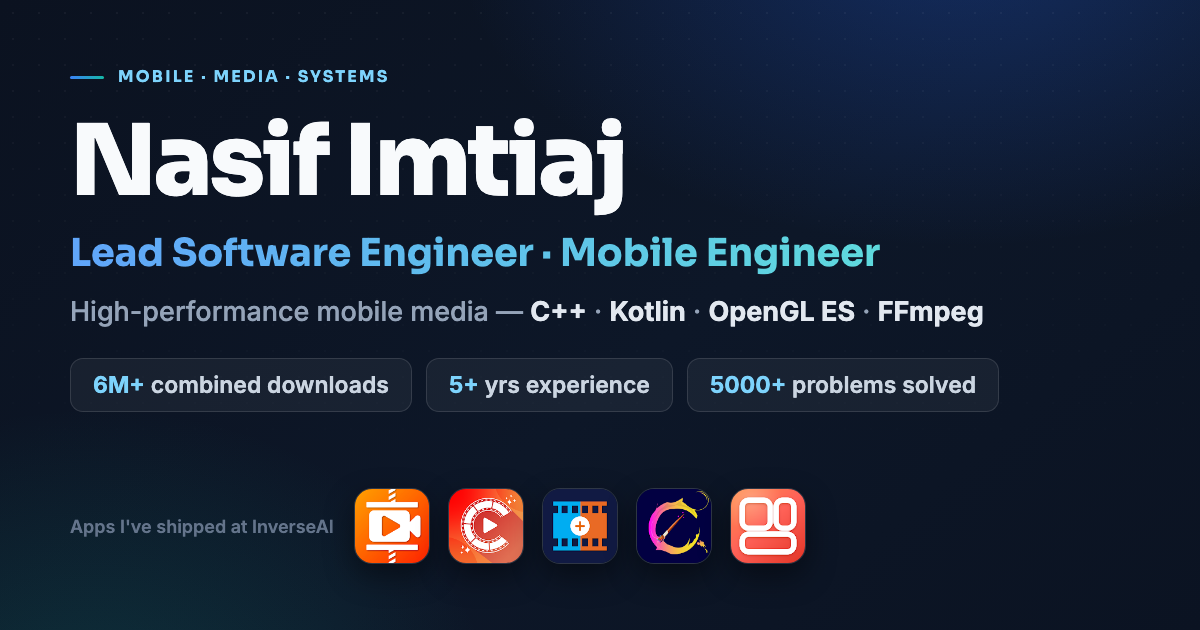
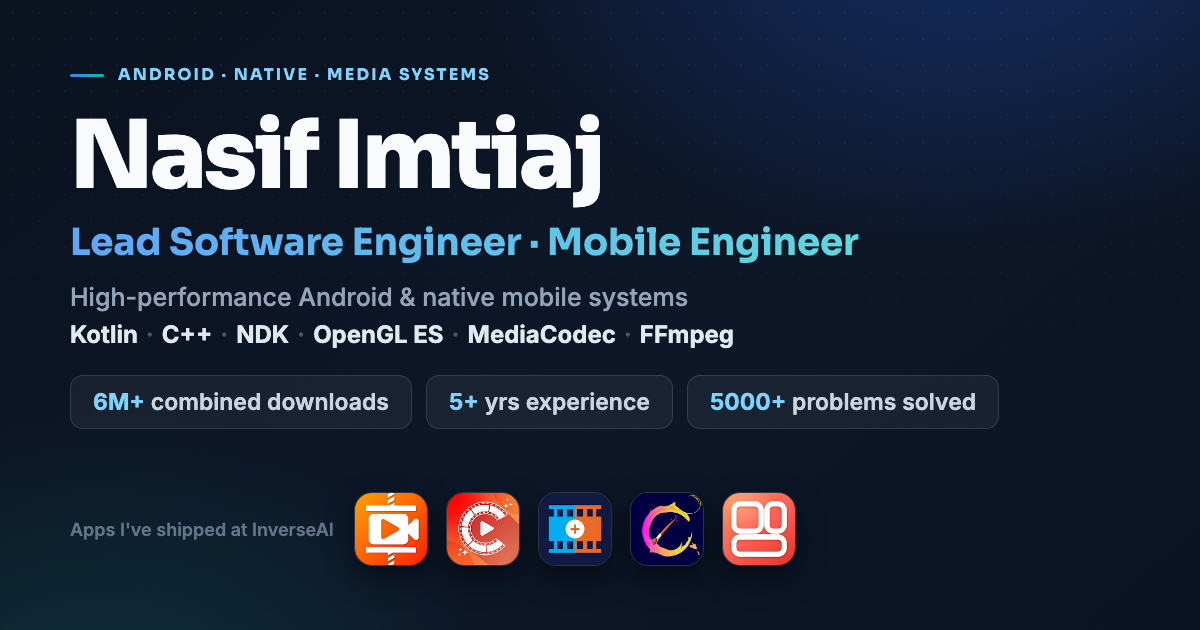
Sync portfolio with updated resume; reposition to Android-native
- Rewrite summary/about to "high-performance Android applications and
  native mobile systems in Kotlin, C++, and the NDK"
- Drop iOS/Swift/SwiftUI/UIKit/Xcode and cross-platform framing
- Rewrite Lead SWE and SWE (Android) experience bullets to match resume
- Skills: "Android Development" card; add System Design & Software
  Architecture; AI Engineering (LLM Integrations)
- Video Collage: add multi-video engine bullet (9 concurrent streams)
- Video Compressor: reword AI assistant bullet, drop dated framing
- Regenerate OG cover and add LinkedIn banner with new positioning

diff --git a/index.html b/index.html
@@ -4,9 +4,9 @@
   <meta charset="UTF-8">
   <meta name="viewport" content="width=device-width, initial-scale=1.0">
   <title>Nasif Imtiaj — Lead Software &amp; Mobile Engineer</title>
-  <meta name="description" content="Lead Software Engineer with ~5 years in high-performance mobile media — native C++, OpenGL ES, and FFmpeg video engines. Shipped apps totaling 6M+ downloads.">
+  <meta name="description" content="Lead Software Engineer with 5 years building high-performance Android applications and native mobile systems in Kotlin, C++, and the NDK — OpenGL ES, MediaCodec, and FFmpeg. Apps with 6M+ downloads.">
   <meta property="og:title" content="Nasif Imtiaj — Lead Software &amp; Mobile Engineer">
-  <meta property="og:description" content="Lead Software Engineer specializing in high-performance mobile media — native C++, OpenGL ES, and FFmpeg video engines. 6M+ app downloads shipped.">
+  <meta property="og:description" content="Lead Software Engineer building high-performance Android applications and native mobile systems in Kotlin, C++, and the NDK — OpenGL ES, MediaCodec, and FFmpeg. Apps with 6M+ downloads.">
   <meta property="og:url" content="https://nasif-imtiaj.github.io">
   <meta property="og:type" content="website">
   <meta property="og:image" content="https://nasif-imtiaj.github.io/assets/img/og-cover.png">
@@ -88,7 +88,7 @@
       <span class="role-chip teal">Mobile Engineer</span>
     </div>
     <p class="hero-desc f3">
-      Lead Software Engineer with <strong>~5 years</strong> specializing in high-performance mobile media — architecting native <strong>C++, OpenGL ES, and FFmpeg</strong> video engines for real-time editing, GPU rendering, and hardware-accelerated export. Shipped apps totaling <strong>6M+ downloads</strong>, led a team of up to <strong>6</strong>, and partnered with leadership to shape product and roadmap.
+      Lead Software Engineer with <strong>5 years</strong> building high-performance Android applications and native mobile systems in <strong>Kotlin, C++, and the NDK</strong>. Architected from-scratch rendering engines and optimized GPU and multithreaded pipelines — spanning <strong>OpenGL ES, MediaCodec, and FFmpeg</strong> — across apps with <strong>6M+ downloads</strong>. Led a team of up to <strong>6</strong>, owned core architecture and code review, and partnered with leadership to shape product direction.
     </p>
     <div class="hero-actions f4">
       <a href="mailto:nasifimtiaj.16@gmail.com" class="btn btn-primary">Get in touch</a>
@@ -152,10 +152,10 @@
     <div class="about-layout">
       <div class="about-text">
         <p>
-          I'm a <strong>Lead Software Engineer</strong> with <strong>~5 years</strong> specializing in high-performance mobile media. I architect native <strong>C++, OpenGL ES, and FFmpeg</strong> video engines for real-time editing, GPU rendering, and hardware-accelerated export — powering apps that have shipped <strong>6M+ downloads</strong> on the Play Store.
+          I'm a <strong>Lead Software Engineer</strong> with <strong>5 years</strong> building high-performance Android applications and native mobile systems in <strong>Kotlin, C++, and the NDK</strong>. I architect from-scratch rendering engines and optimize GPU and multithreaded pipelines — spanning <strong>OpenGL ES, MediaCodec, and FFmpeg</strong> — across apps with <strong>6M+ downloads</strong>.
         </p>
         <p>
-          I led the ground-up development of a <strong>from-scratch native rendering engine</strong> now re-used across 5 InverseAI apps, and I drive core product decisions — feature prioritization, market research, and roadmap planning. Along the way I've mentored <strong>10+ engineers</strong>, led a team of up to <strong>6</strong>, and conducted <strong>100+ technical interviews</strong>. Lately I've been building <strong>AI &amp; agentic systems</strong> — on-device agent loops, MCP tooling, and multi-agent automation for QA and releases.
+          I own the architecture of the core video-editing platform as its principal engineer, and the <strong>from-scratch native rendering engine</strong> I built now powers 5 InverseAI apps. I've led a team of up to <strong>6</strong>, mentored and onboarded <strong>10+ engineers</strong>, conducted <strong>100+ technical interviews</strong>, and partner with leadership to shape product direction. Lately I've been building <strong>AI &amp; agentic systems</strong> — on-device agent loops, MCP tooling, and multi-agent automation for QA and releases.
         </p>
         <p>
           Beyond my work, I am a dedicated competitive programmer, having solved <strong>5000+ algorithmic problems</strong> and participated in multiple national and online contests. My passion for problem-solving drives me to take ownership, solve complex challenges, and continuously improve products.
@@ -180,7 +180,7 @@
             <span class="itag">Video Processing</span>
             <span class="itag">AI &amp; Agentic Systems</span>
             <span class="itag">Competitive Programming</span>
-            <span class="itag">Cross-platform Dev</span>
+            <span class="itag">System Design</span>
             <span class="itag">Low-level Systems</span>
           </div>
         </div>
@@ -200,20 +200,16 @@
       <div class="skill-card wide">
         <div class="skill-card-header">
           <div class="skill-icon si-blue">📱</div>
-          <div class="skill-card-title">Mobile Development</div>
+          <div class="skill-card-title">Android Development</div>
         </div>
         <div class="tag-list">
           <span class="tag primary">Kotlin</span>
-          <span class="tag primary">Swift</span>
           <span class="tag primary">Jetpack Compose</span>
-          <span class="tag primary">SwiftUI</span>
+          <span class="tag primary">Coroutines &amp; Flow</span>
           <span class="tag primary">KMM</span>
-          <span class="tag">Coroutines</span>
-          <span class="tag">UIKit</span>
           <span class="tag">MVVM</span>
           <span class="tag">MVC</span>
           <span class="tag">Android SDK</span>
-          <span class="tag">iOS SDK</span>
         </div>
       </div>
 
@@ -228,11 +224,12 @@
           <span class="tag teal-tag">C++</span>
           <span class="tag teal-tag">Kotlin</span>
           <span class="tag teal-tag">Java</span>
-          <span class="tag teal-tag">Swift</span>
           <span class="tag">NDK</span>
           <span class="tag">JNI</span>
           <span class="tag">CMake</span>
           <span class="tag">Multithreading</span>
+          <span class="tag">System Design</span>
+          <span class="tag">Software Architecture</span>
         </div>
       </div>
 
@@ -257,17 +254,15 @@
       <div class="skill-card">
         <div class="skill-card-header">
           <div class="skill-icon si-blue">🤖</div>
-          <div class="skill-card-title">AI &amp; Agentic Engineering</div>
+          <div class="skill-card-title">AI Engineering</div>
         </div>
         <div class="tag-list">
           <span class="tag primary">MCP</span>
-          <span class="tag primary">Multi-agent Orchestration</span>
+          <span class="tag primary">LLM Integrations</span>
           <span class="tag primary">Agentic Workflows</span>
-          <span class="tag primary">LLM Automation</span>
           <span class="tag">Claude Code</span>
           <span class="tag">Cursor</span>
           <span class="tag">Codex</span>
-          <span class="tag">Antigravity</span>
         </div>
       </div>
 
@@ -286,7 +281,6 @@
           <span class="tag">ProGuard / R8</span>
           <span class="tag">Jira</span>
           <span class="tag">Android Studio</span>
-          <span class="tag">Xcode</span>
         </div>
       </div>
 
@@ -313,15 +307,12 @@
             <a href="https://inverseai.com/" class="exp-company-link" target="_blank" title="Visit InverseAI"><span class="exp-company">InverseAI</span> ↗</a>
           </div>
           <ul class="exp-bullets">
-            <li>Led the development of a video editor app from the ground up, designing an extensible codebase for Android and iOS to support feature expansion and making key decisions on feature development, design and release timelines for a successful launch.</li>
-            <li>Utilized GPU resources to boost decoding and encoding speed by approximately <strong>50%</strong>.</li>
-            <li>Improved the multithreading structure to allow users to add multiple videos at once, providing a dynamic user experience.</li>
-            <li>Built core features such as Filter and Adjust using OpenGL and FFmpeg through in-depth research and optimizations to provide faster rendering for <strong>2K resolution</strong> and <strong>60 fps</strong> videos.</li>
-            <li>Built a multi-video collage module capable of handling up to <strong>9 videos</strong> with synchronized playback.</li>
-            <li>Strengthened overall app quality and Play Store performance by keeping crash and ANR rates well within Google's required thresholds.</li>
-            <li>Drove core product decisions — feature prioritization, market research, and roadmap planning — directly shaping which features shipped in a product-driven company.</li>
-            <li>Mentored and onboarded <strong>10+</strong> engineers and led a team of up to <strong>6</strong>, running code reviews and establishing coding standards to ramp new hires to independent delivery.</li>
-            <li>Conducted <strong>100+</strong> technical interviews, driving engineering hiring decisions as the team scaled.</li>
+            <li>Owned the architecture of the core video-editing platform as its principal engineer — defining technical direction, reviewing critical changes, and safeguarding release quality across a growing team.</li>
+            <li>Re-architected the native decode/encode pipeline to offload processing to the GPU, increasing video processing throughput by approximately <strong>50%</strong>.</li>
+            <li>Expanded the editing pipeline from single-video to <strong>multi-video composition</strong> by redesigning the underlying multithreaded processing pipeline for simultaneous editing of multiple clips.</li>
+            <li>Engineered core editing features such as Filter and Adjust with OpenGL and FFmpeg, applying GPU pipeline optimizations to deliver faster rendering for <strong>2K resolution</strong> and <strong>60 fps</strong> videos.</li>
+            <li>Influenced product strategy alongside company leadership — balancing technical feasibility, customer feedback, and roadmap priorities.</li>
+            <li>Led a team of up to <strong>6</strong> engineers, mentoring and onboarding <strong>10+</strong> engineers through code reviews and engineering standards, while conducting <strong>100+</strong> technical interviews that helped scale the engineering organization.</li>
           </ul>
         </div>
       </div>
@@ -338,12 +329,11 @@
             <a href="https://inverseai.com/" class="exp-company-link" target="_blank" title="Visit InverseAI"><span class="exp-company">InverseAI</span> ↗</a>
           </div>
           <ul class="exp-bullets">
-            <li>Enhanced the performance and stability of legacy apps by optimizing compression commands, resolving crashes &amp; ANRs, and conducting code reviews, leading to a <strong>4× increase</strong> in in-app purchase revenue.</li>
-            <li>Analyzed key customer issues by collaborating with the testing team, reviewing console feedback and bug reports to build test cases that reduced overall complaints by <strong>10%</strong>.</li>
+            <li><strong>Contributed to a 4× increase</strong> in in-app purchase revenue over two years by improving the stability and compression performance of legacy apps — optimizing compression commands, resolving crashes &amp; ANRs, and enforcing code-review-gated releases.</li>
+            <li>Analyzed key customer issues by collaborating with the testing team, reviewing console feedback, email responses, and bug reports to develop test cases that accelerated issue detection, reducing overall complaints by <strong>10%</strong>.</li>
             <li>Engineered a new seeking mechanism for the Video Editor app that improved accuracy by <strong>20%</strong> and innovated bi-directional slow seeking with precise preview functionality.</li>
-            <li>Architected and optimized efficient multithreaded systems to ensure flawless asynchronous execution in highly concurrent operations.</li>
+            <li>Architected and optimized efficient <strong>multithreaded systems</strong> to ensure flawless asynchronous execution and prevent unexpected behavior in highly concurrent operations.</li>
             <li>Developed the photo collage feature using the <strong>DSU algorithm</strong>, enabling customizable layout arrangements supporting up to <strong>10 pictures</strong> at once.</li>
-            <li>Modularized reusable components of existing projects to reduce coding redundancy, improving reliability and maintenance.</li>
           </ul>
         </div>
       </div>
@@ -380,7 +370,7 @@
         </div>
         <div class="project-name">Video Compressor</div>
         <div class="project-meta"><span class="pm-star">★ 4.8</span><span class="pm-sep">·</span><span class="pm-dl">5M+ downloads</span></div>
-        <div class="project-desc">Spearheaded the 2026 flagship <strong>AI assistant</strong> that turns natural-language requests into finished video compressions, and executed the app's core FFmpeg engine migration.</div>
+        <div class="project-desc">Architected and built an in-app <strong>AI assistant</strong> that turns natural-language requests into finished video compressions, and executed the app's core FFmpeg engine migration.</div>
         <div class="project-tags">
           <span class="ptag">AI Agent</span>
           <span class="ptag">MCP</span>
@@ -391,7 +381,7 @@
         <div class="pd-detail" hidden>
           <h4 class="modal-sec">Contribution &amp; Work</h4>
           <ul class="pd-bullets">
-            <li><strong>Spearheaded</strong> the 2026 flagship feature — an in-app <strong>AI assistant</strong> that turns natural-language requests into finished video compressions — architecting an on-device agent loop that exposes <strong>16 tools</strong> across <strong>9 compression profiles</strong>.</li>
+            <li><strong>Architected and built</strong> an in-app <strong>AI assistant</strong> that turns natural-language requests into finished video compressions — an on-device agent loop that exposes <strong>16 tools</strong> across <strong>9 compression profiles</strong>.</li>
             <li><strong>Engineered</strong> the assistant's compression engine bridge, mapping validated AI plans into the FFmpeg pipeline across <strong>22 container formats</strong> and <strong>19 video codecs</strong>, with tested invariants that prevent native-encoder crashes.</li>
             <li><strong>Executed</strong> the app's core FFmpeg engine migration behind a legacy-API-preserving adapter, landing a major dependency upgrade without regressing existing features.</li>
             <li><strong>Accelerated</strong> responsiveness on large videos by moving compression, execution, and metadata work off the UI thread and eliminating a recurring class of concurrency-driven memory leaks.</li>
@@ -516,6 +506,7 @@
           <h4 class="modal-sec">Contribution &amp; Work</h4>
           <ul class="pd-bullets">
             <li><strong>Independently</strong> designed, built, and shipped a Jetpack Compose Android photo/video collage app end-to-end — architecture, editing engine, and monetization.</li>
+            <li><strong>Architected</strong> a synchronized <strong>multi-video collage</strong> engine supporting playback of up to <strong>9 concurrent video streams</strong>.</li>
             <li><strong>Engineered</strong> a mask-based GPU collage renderer with <strong>400+ layouts</strong>, root-causing and fixing native OpenGL/MediaCodec export defects — hardware-decoder exhaustion, EGL-context loss, and black-cell texture failures — to deliver smooth multi-clip output.</li>
             <li><strong>Built</strong> a complete monetization stack — a Play Billing subscription paywall with settlement-safe entitlement, rewarded, interstitial, and app-open ads, an in-house cross-promo fallback, and per-feature premium gating.</li>
             <li><strong>Automated</strong> visual QA with a computer-vision test harness that validates every generated layout mask against its reference icon on real devices, catching mismatches a simpler check missed.</li>
@@ -626,7 +617,7 @@
           </div>
           <div class="achievement-sub">InverseAI · 2022 &amp; 2023 · Dhaka, Bangladesh</div>
           <div class="achievement-desc">
-            Recognized as a top performer for two consecutive years for outstanding contributions to mobile video engineering, including the ground-up build of a cross-platform video editing engine.
+            Recognized as a top performer for two consecutive years for outstanding contributions to mobile video engineering, including the ground-up build of a native video editing engine.
           </div>
           <div class="achievement-links">
             <a href="https://www.linkedin.com/posts/inverse-ai_congratulations-topperformers-profitsharing-activity-7026847256158896128-IwQj/" class="achievement-link" target="_blank">2022 ↗</a>
